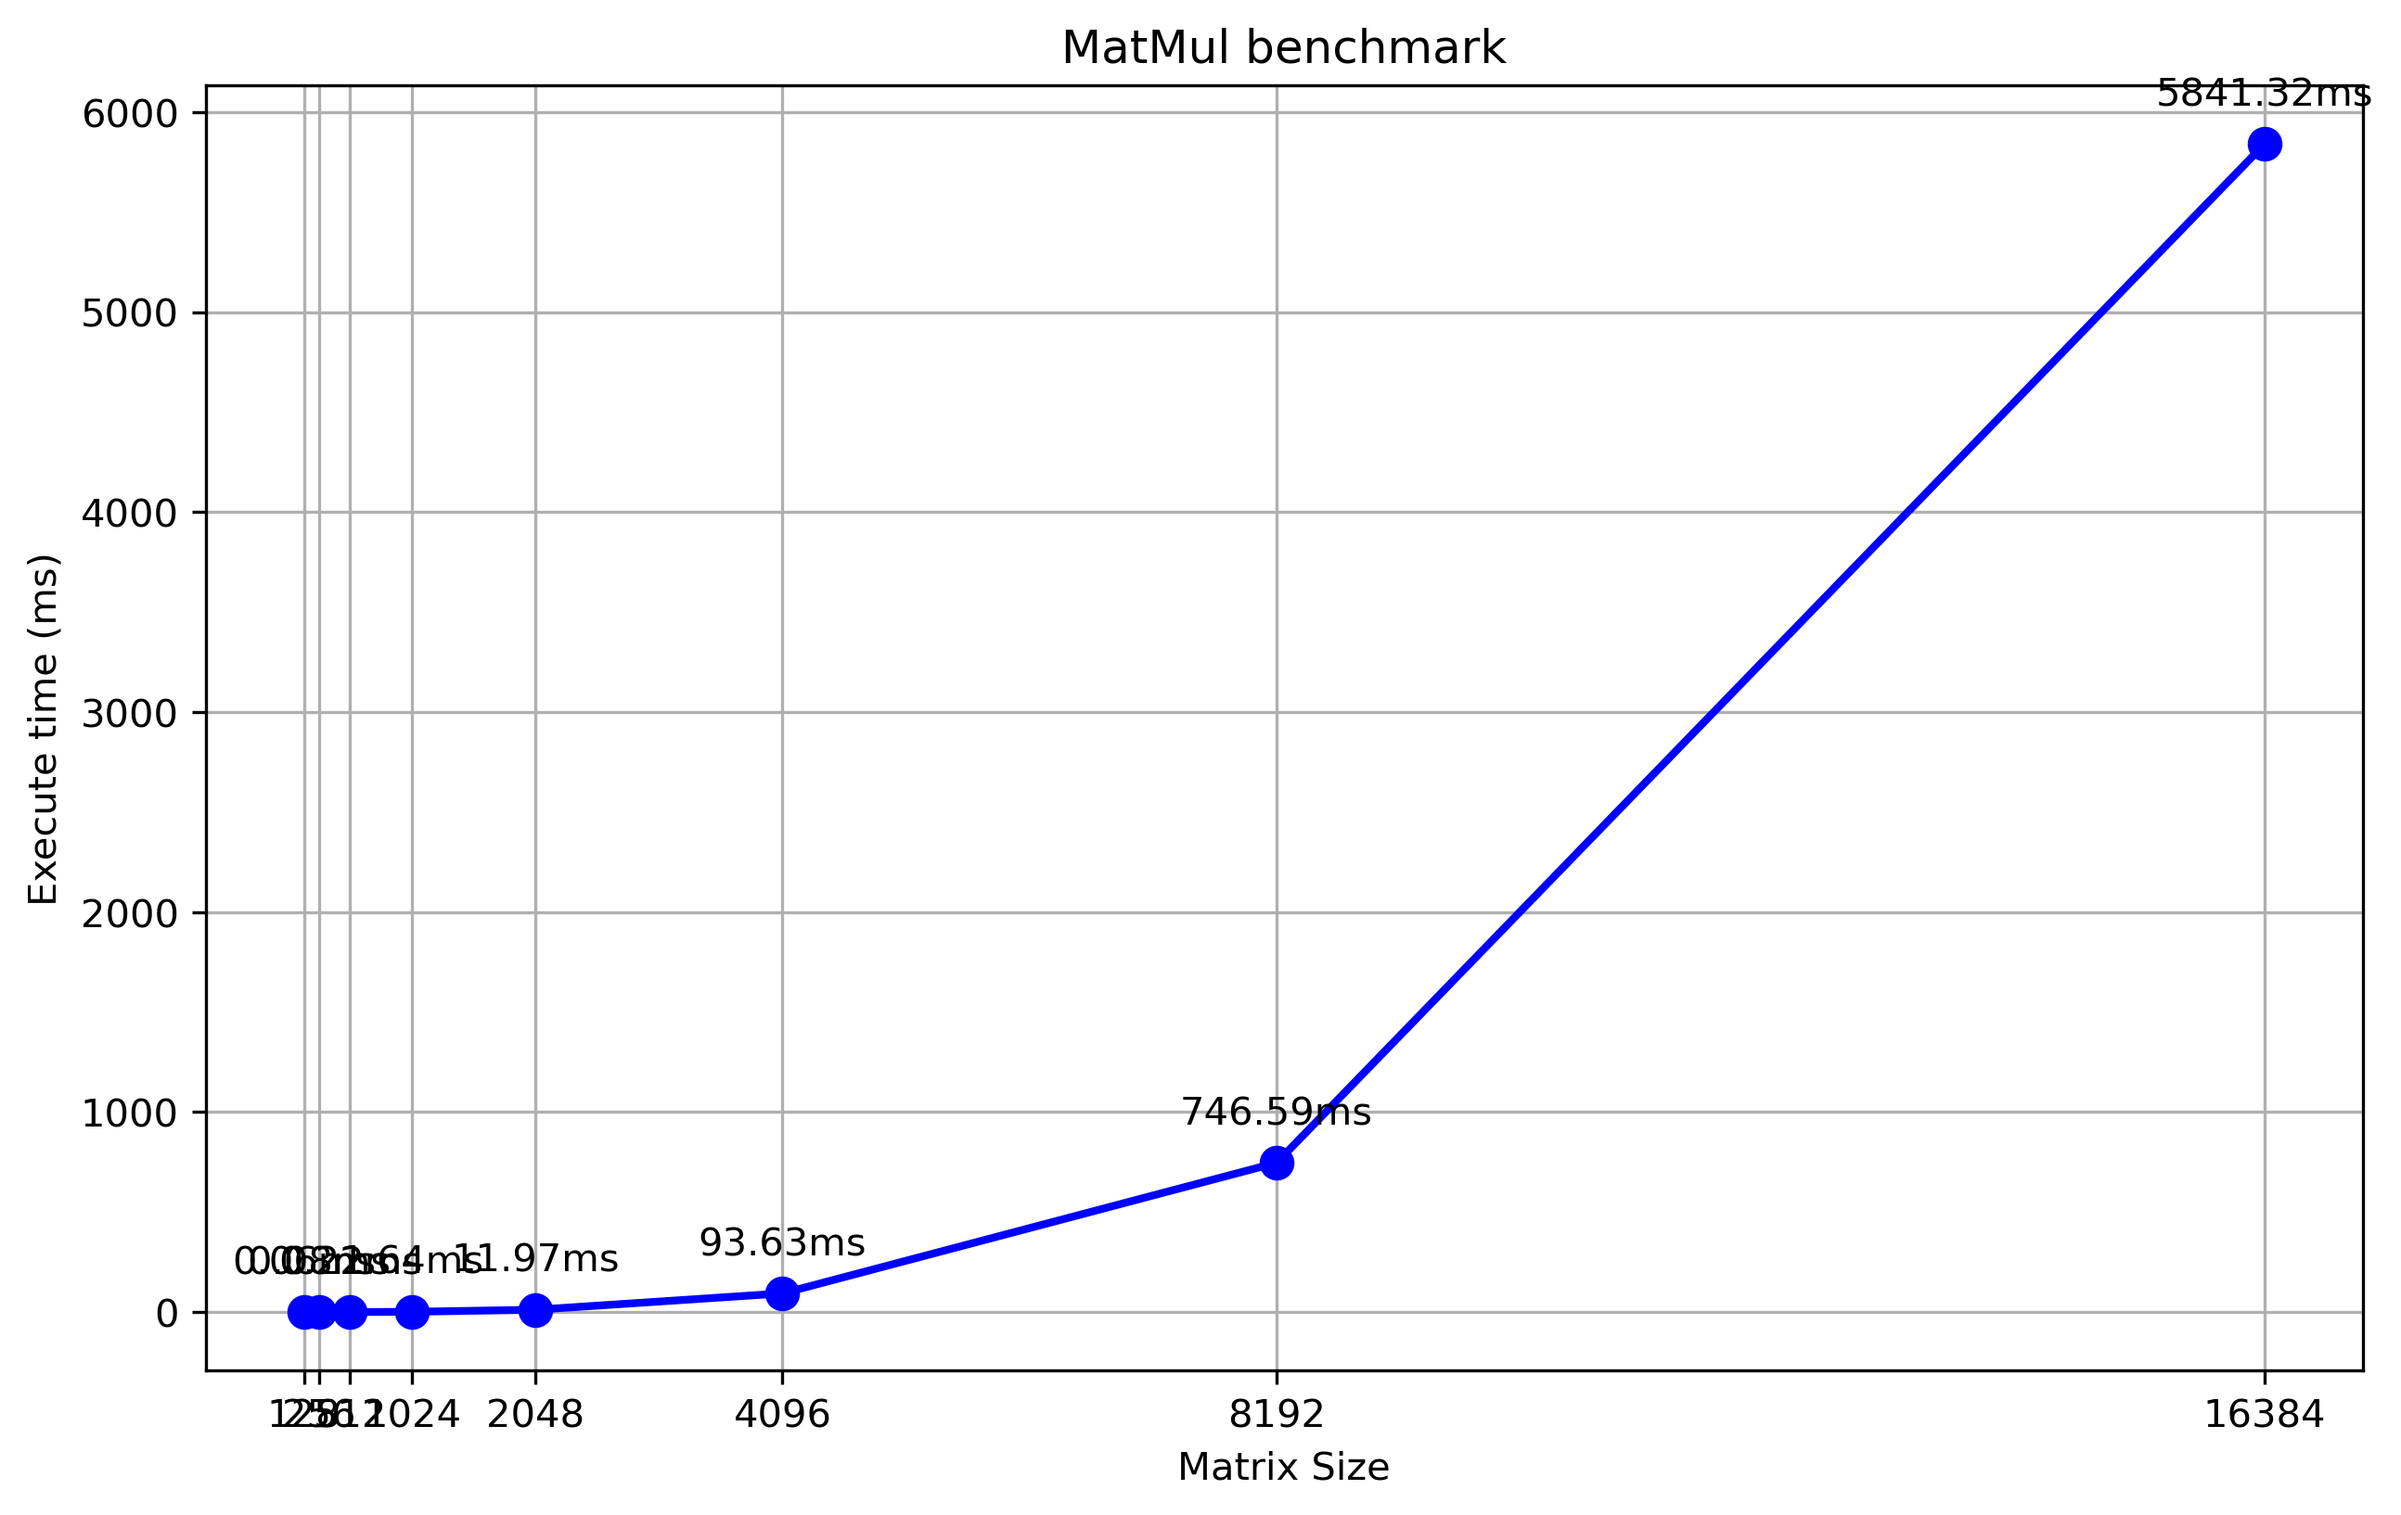
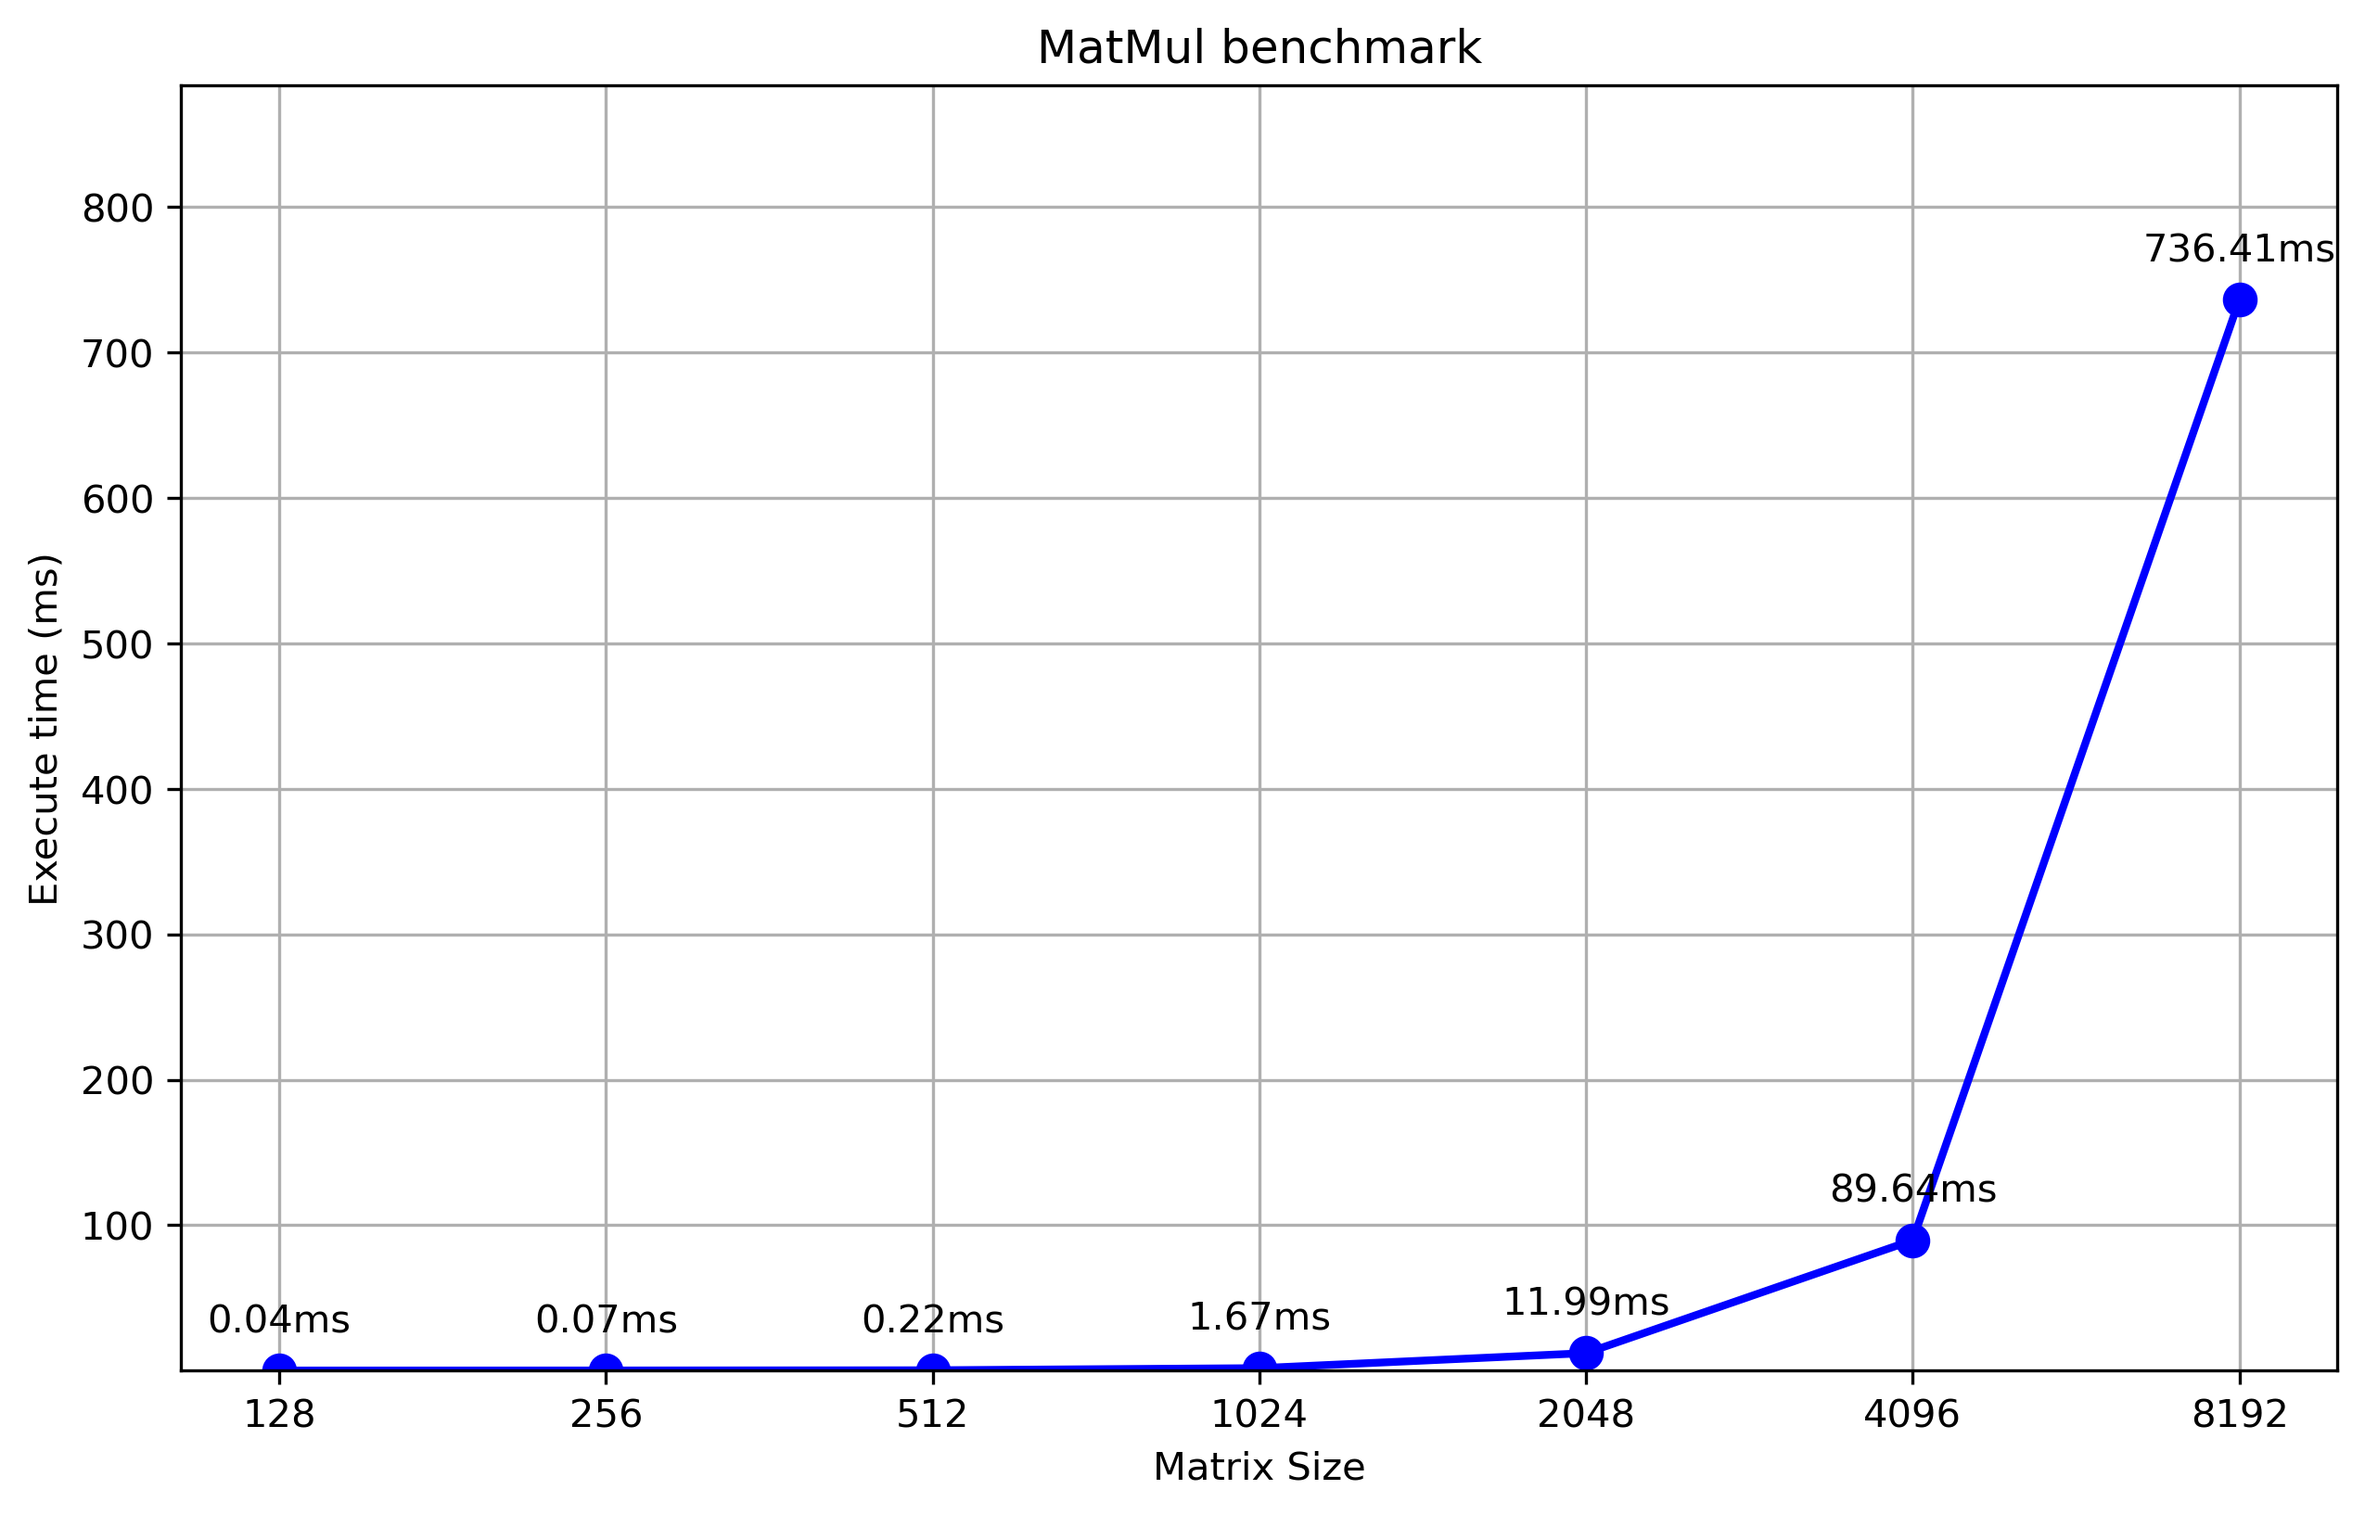
benchmark png update

diff --git a/mat_mul/plot_benchmark.py b/mat_mul/plot_benchmark.py
@@ -23,7 +23,7 @@ def benchmark_matmul(size):
     return (end_time - start_time) * 1000  # 转换为毫秒
 
 # 设置不同的矩阵大小
-sizes = [128, 256, 512, 1024, 2048, 4096, 8192, 16384]
+sizes = [128, 256, 512, 1024, 2048, 4096, 8192]
 times = []
 
 # 运行基准测试
@@ -40,7 +40,8 @@ for size in sizes:
 
 # 绘制图表
 plt.figure(figsize=(10, 6))
-plt.plot(sizes, times, 'bo-', linewidth=2, markersize=8)
+x_positions = np.arange(len(sizes))
+plt.plot(x_positions, times, 'bo-', linewidth=2, markersize=8)
 plt.grid(True)
 plt.xlabel('Matrix Size')
 plt.ylabel('Execute time (ms)')
@@ -49,13 +50,18 @@ plt.title('MatMul benchmark')
 # 添加数据标签
 for i, (size, time) in enumerate(zip(sizes, times)):
     plt.annotate(f'{time:.2f}ms', 
-                (size, time), 
+                (x_positions[i], time), 
                 textcoords="offset points", 
                 xytext=(0,10), 
                 ha='center')
 
 # 设置x轴刻度
-plt.xticks(sizes)
+plt.xticks(x_positions, sizes)
+
+# 调整y轴范围，让小值更明显
+ymin = min(times) * 0.5  # 下限设为最小值的一半
+ymax = max(times) * 1.2  # 上限留出一些空间给标签
+plt.ylim(ymin, ymax)
 
 # 保存图表
 plt.savefig('matmul_benchmark.png', dpi=300, bbox_inches='tight')
